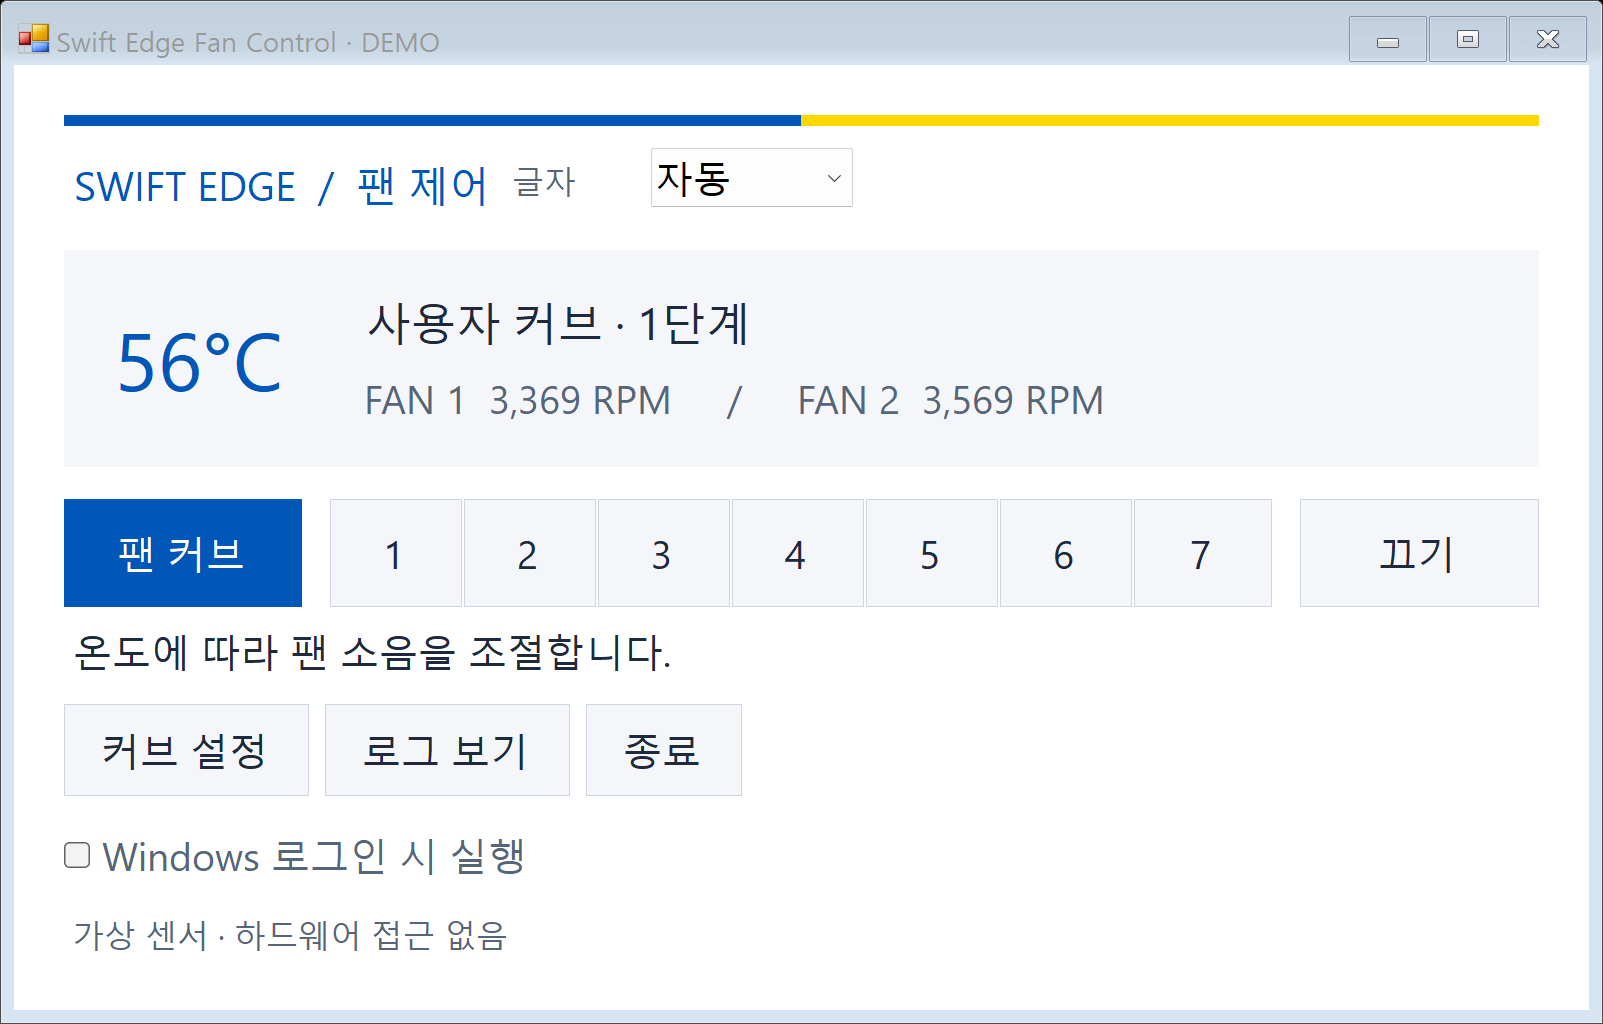
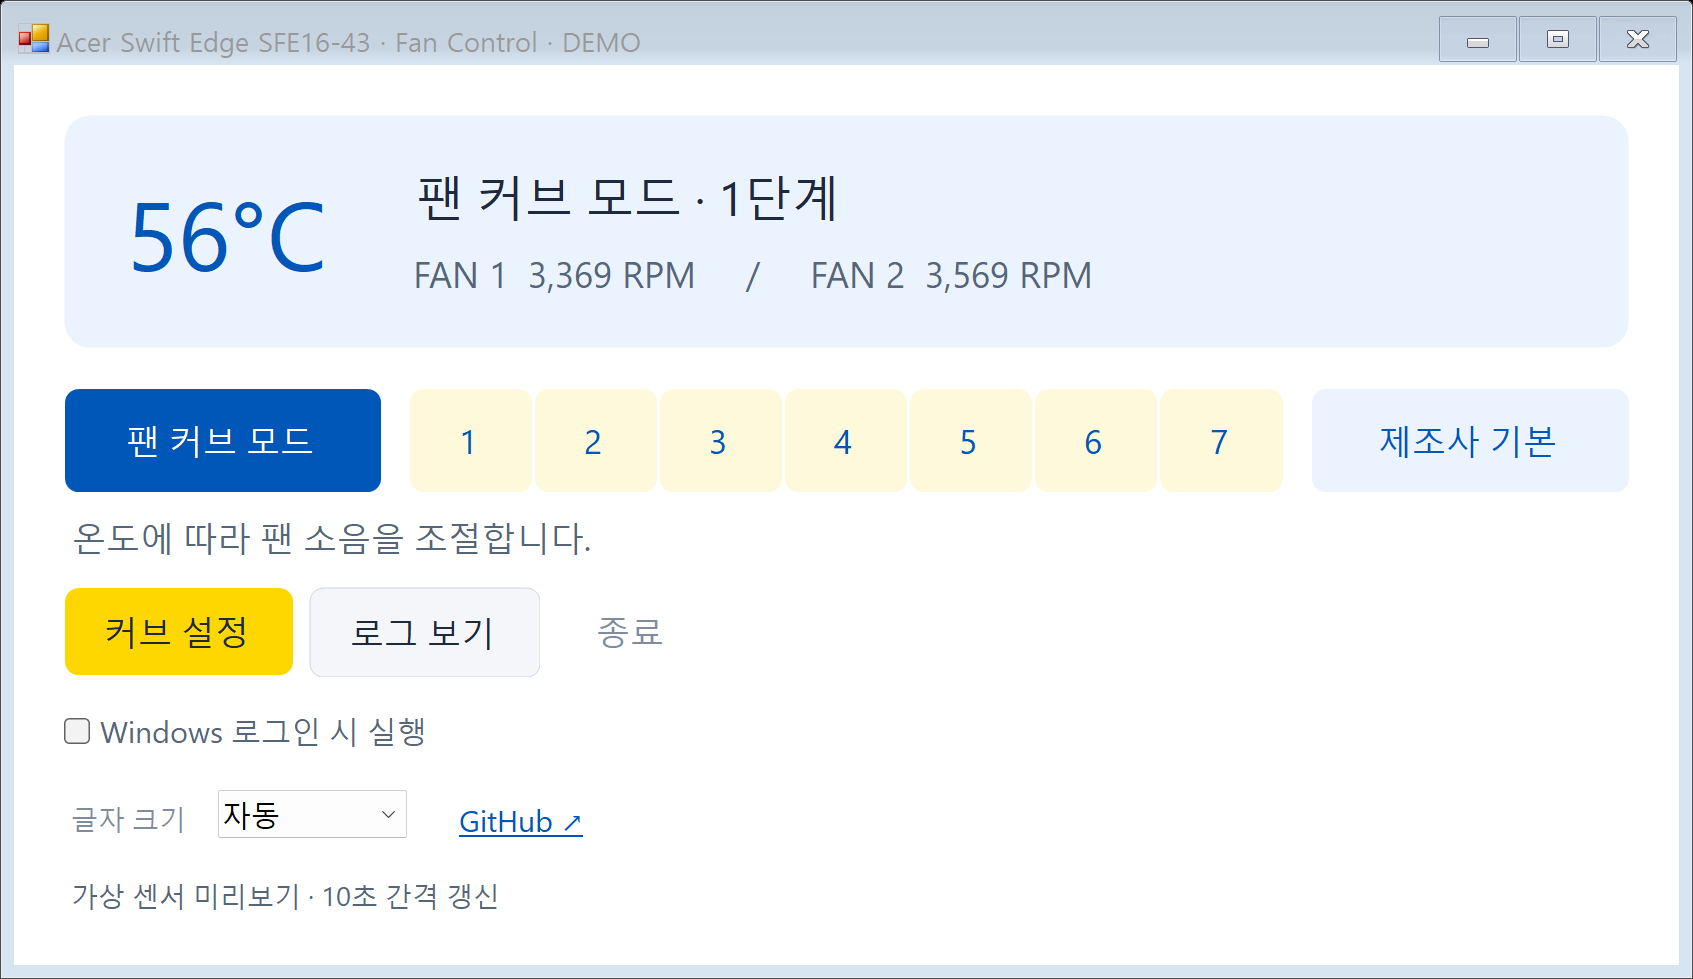
Document rounded UI and sampling validation

diff --git a/docs/VALIDATION.md b/docs/VALIDATION.md
@@ -41,3 +41,11 @@ Curve / fixed 1–7 / Off now share one row, with a plain-language mode descript
 Recursive layout suspension now batches font/spacing changes across nested containers. Visible native controls defer painting until layout and button text fitting finish. Generated fonts are reused, unused cached fonts are pruned above 256 entries, and generated fonts/timers are disposed with the form. Disposed forms ignore delayed responsive work.
 
 On this device, a hardware-free MainForm benchmark with logs expanded changed between 115%, 130%, 150%, and 100% 20 times after four warm-up changes. Both versions used an off-screen window and included Application.DoEvents/Update. Baseline median/max were 657.67/857.27 ms with 6440 layout events; the optimized run measured 96.95/168.43 ms with 2150 layout events. This measures the test UI update path, not end-to-end display/compositor latency, and is not a guarantee for every resolution. The ordinary on-screen render checks passed (four STATUS lines, single-line temperature, responsive font shrink). All 37 policy/fake-controller checks passed. The EC protocol, sampling rate and thermal protection were not modified.
+
+## Rounded dashboard and 10-second sampling revision
+
+The title bar now includes SFE16-43. The redundant dashboard heading/stripe was removed. White space, a pale blue rounded status card, blue mode controls, pale yellow level controls, a yellow settings action and muted secondary text establish visual hierarchy. The logon startup checkbox remains. Font sizing and a GitHub link are in the footer. Rounded controls use native keyboard/button behavior and antialiased custom painting.
+
+Temperature, levels and both RPMs are now acquired together every approximately 10 seconds, and each successful sample is logged and published to the UI. Mode requests wake the worker immediately. Heartbeats continue during idle waits without EC reads; the 8-second watchdog threshold is unchanged. The 90 C thermal fallback is now evaluated at the 10-second sample cadence, rather than the previous 2-second cadence.
+
+Render checks passed for four visible STATUS lines, a single-line temperature and responsive shrinking. Fake-controller tests include an assertion that an idle controller does not poll temperature again within 2.2 seconds. A short live check after replacement recorded five fresh STATUS samples with timestamp gaps 10/10/9/10 seconds and no fallback, watchdog or critical event in that interval. This verifies coexistence of the 10-second cadence and the watchdog over that short interval; it does not establish long-term endurance or thermally stress the laptop.

diff --git a/docs/ARCHITECTURE.md b/docs/ARCHITECTURE.md
@@ -10,7 +10,7 @@
 
 ## Cadence and display freshness
 
-CPU temperature is read around every 2 seconds. Mode, fan levels and tachometer bytes are read around every 6 seconds. Real elapsed cadence can grow during retries. Only successful fresh temperature reads refresh the watchdog heartbeat. The large status strip refreshes every 20 seconds or immediately after a user mode request; requested settings and actual application are distinct. The detail line reports read times and cumulative timeout counts. Tachometer byte reads are sequential, not an atomic 16-bit snapshot; occasional edge artifacts are possible.
+CPU temperature, control mode, fan levels and tachometer bytes are read together around every 10 seconds. Real elapsed cadence can grow during retries. Each successful complete sample publishes the dashboard and a STATUS log line. User mode requests wake the worker immediately. During idle waits, the worker refreshes its heartbeat every 2 seconds without accessing the EC; the independent watchdog retains its 8-second stale-heartbeat timeout. No independent heartbeat thread masks a worker stuck during an EC transaction. A failed sensor read still latches manufacturer automatic control. The 90°C threshold is evaluated at sample time, so thermal response can be delayed by up to a sampling interval plus communication time. Tachometer byte reads are sequential, not an atomic 16-bit snapshot; occasional edge artifacts are possible.
 
 File writes use a temporary file plus replacement. The watchdog retains the last valid heartbeat through a single sharing/read error; it does not interpret one failed file read as an 8-second sensor outage. Cross-process log writes use a separate named mutex. A readiness file must be present before the first manual write; loss of the watchdog process also causes fallback.
 
